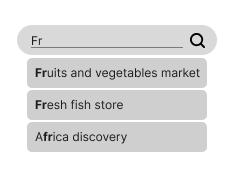
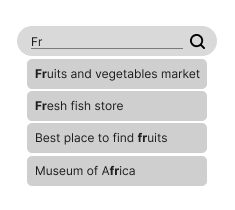
Change name values for example and tests

Changed region(s): [[0.0596, 0.1136, 0.9234, 0.5398], [0.0894, 0.5682, 0.8936, 0.9091]]

diff --git a/test/completion_test.dart b/test/completion_test.dart
@@ -5,7 +5,10 @@ import 'package:sherlock/completion.dart';
 void main() {
   final places = [
     {
-      'name': 'Africa discovery',
+      'name': 'Museum of Africa',
+    },
+    {
+      'name': 'Best place to find fruits',
     },
     {
       'name': 'Fruits and vegetables market',
@@ -18,7 +21,7 @@ void main() {
       'name': 'Ball pool',
     },
     {
-      'name': 'Finland discovery',
+      'name': 'Finland palace',
     },
     {
       'name': 90,
